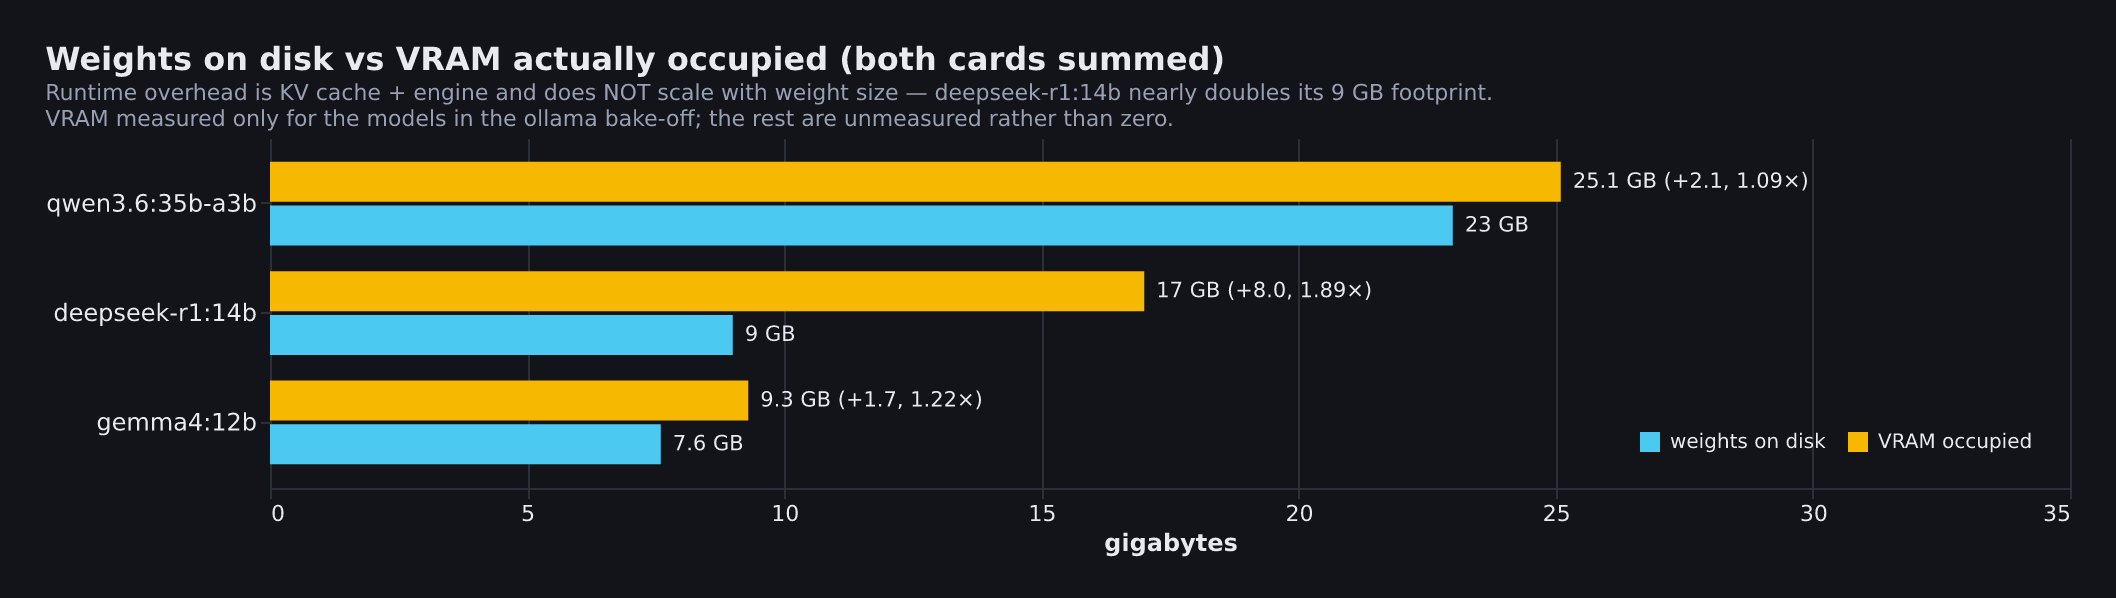
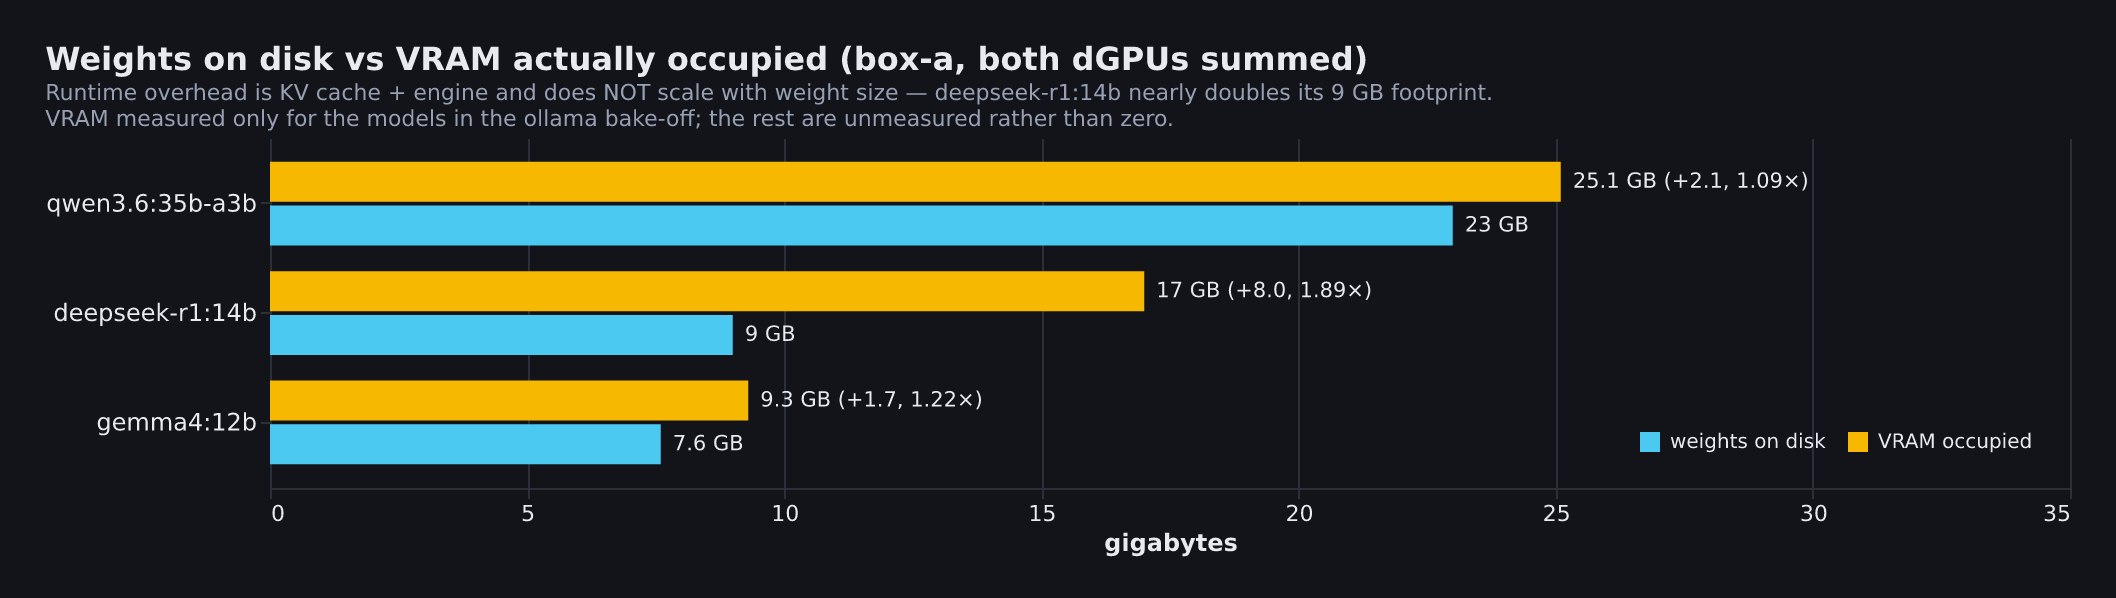
bench: add two-box throughput operating log

Changed region(s): [[0.4055, 0.0602, 0.655, 0.1204]]

diff --git a/bench/make_charts.py b/bench/make_charts.py
@@ -10,16 +10,23 @@ peak = [
     ("LFM2.5-8B-A1B",         230.0, "lfm",      "5.2 GB · Q4_K_M · MoE A1B · decode · best of 2"),
     ("Ornith-1.0-35B-A3B",    199.9, "ornith",   "21 GB · Q4_K_M · MoE A3B · llama.cpp -ngl 24 · best of 4"),
     ("Ornith-1.0-35B",        115.0, "ornith",   "21 GB · Q4_K_M · MoE A3B · single run"),
-    ("qwen3.6:35b-a3b",       114.4, "qwen",     "23 GB · Q4_K_M · MoE A3B · ollama · single run"),
-    ("qwen3-coder:30b",       108.1, "qwen",     "18 GB · Q4_K_M · 30.5B dense · spec-decode · best of 2"),
+    ("qwen3.6:35b-a3b",       114.43, "qwen",    "box-a · both-dgpu · Q4_K_M · n=1"),
+    ("qwen3-coder:30b",       111.7, "qwen",     "box-b · dgpu-b · quant unknown · n=1"),
+    ("gemma4:26b-a4b-it-qat", 105.2, "gemma",    "box-b · dgpu-b · q4_0-qat · n=2"),
     ("GLM-4.7-Flash",         105.0, "glm",      "18 GB · Q4_K_M · llama-server · best of 2"),
-    ("gemma4:26b-a4b-it-qat", 100.0, "gemma",    "15 GB · Q4_0 QAT · 25.2B MoE A4B · best of 3"),
+    ("GLM-4.7-Flash-GGUF",    105.0, "glm",      "box-a · both-dgpu · quant unknown · n=1"),
     ("Ornith-1.0-9B",          67.0, "ornith",   "5.6 GB · Q4_K_M · 9B dense · single run"),
+    ("qwen3.8:27b-devicepinned", 56.4, "qwen",   "box-b · dgpu-b · device-pinned build · n=1"),
     ("gemma4:12b",             54.0, "gemma",    "7.6 GB · Q4_K_M · 11.9B dense · best of 3"),
+    ("qwen3.8:27b",            46.0, "qwen",     "box-b · dgpu-b · quant unknown · n=1"),
     ("qwen3:14b",              42.5, "qwen",     "Q4_K_M · 14B · ollama · single run"),
     ("deepseek-r1:14b",        42.4, "deepseek", "9.0 GB · Q4_K_M · 14.8B · single run"),
+    ("muse-glimmer",           33.8, "qwythos",  "box-b · dgpu-b · llama-server spec-decode · n=3"),
+    ("gemma4:31b-it-qat",      28.25, "gemma",   "box-b · dgpu-b · q4_0-qat · n=2"),
     ("Qwythos-9B",             28.0, "qwythos",  "9B · decode, short context · best of 2"),
-    ("gemma4:31b-it-qat",      21.0, "gemma",    "18 GB · Q4_0 QAT · 30.7B DENSE · best of 3"),
+    ("gemma4:26b-a4b-it-bf16", 13.0, "gemma",    "box-b · igpu · bf16 · n=1 · dumped"),
+    ("gemma4:31b-it-q8_0",      6.6, "gemma",    "box-b · igpu · q8_0 · n=1 · dumped"),
+    ("gemma4:31b-it-bf16",      3.6, "gemma",    "box-b · igpu · bf16 · n=1 · dumped"),
 ]
 p1 = [{"model": m, "tps": v, "family": f, "detail": d} for m, v, f, d in peak]
 
@@ -93,9 +100,9 @@ p1_bars = {
     ],
 }
 panel1 = {
-    "title": {"text": "Local model throughput — measured on one dual-RTX 5060 Ti box",
-              "subtitle": ["Best run per model. Mixed serving stacks (ollama · llama.cpp · llama-server) — indicative, not a controlled cross-stack benchmark.",
-                           "Under each model name: weights · quantisation · architecture · how many runs it is the best of."],
+    "title": {"text": "Local model throughput — two-box operating log",
+              "subtitle": ["Best recorded row per model. Mixed serving stacks and boxes are directional operating data, not a controlled cross-vendor benchmark.",
+                           "Every single-run chart row states n=1; box and device sit under each model name."],
               "anchor": "start", "color": FG, "fontSize": 19, "subtitleColor": MUTED,
               "subtitleFontSize": 11.5},
     "hconcat": [p1_text, p1_bars], "spacing": 14,
@@ -147,7 +154,7 @@ panel2 = {
 }
 
 panel3 = {
-    "title": {"text": "Weights on disk vs VRAM actually occupied (both cards summed)",
+    "title": {"text": "Weights on disk vs VRAM actually occupied (box-a, both dGPUs summed)",
               "subtitle": ["Runtime overhead is KV cache + engine and does NOT scale with weight size — deepseek-r1:14b nearly doubles its 9 GB footprint.",
                            "VRAM measured only for the models in the ollama bake-off; the rest are unmeasured rather than zero."],
               "anchor": "start", "color": FG, "fontSize": 16, "subtitleColor": MUTED, "subtitleFontSize": 11},
@@ -170,6 +177,56 @@ panel3 = {
     ],
 }
 
+# ---------------------------------------------------------------- new two-box panels
+p4 = [
+    {"model": "gemma4:26b-a4b-it-qat", "side": "box-a / dgpu-a", "tps": 83.3, "label": "83.3  n=1"},
+    {"model": "gemma4:26b-a4b-it-qat", "side": "box-b / dgpu-b", "tps": 105.2, "label": "105.2  n=2"},
+    {"model": "gemma4:31b-it-qat", "side": "box-a / dgpu-a", "tps": 18.2, "label": "18.2  n=1"},
+    {"model": "gemma4:31b-it-qat", "side": "box-b / dgpu-b", "tps": 28.25, "label": "28.25  n=2"},
+    {"model": "qwen3-coder:30b", "side": "box-a / dgpu-a", "tps": 35.6, "label": "35.6  n=1"},
+    {"model": "qwen3-coder:30b", "side": "box-b / dgpu-b", "tps": 111.7, "label": "111.7  n=1"},
+    {"model": "qwen3.8:27b", "side": "box-a / dgpu-a", "tps": 21.2, "label": "21.2  n=1"},
+    {"model": "qwen3.8:27b", "side": "box-b / dgpu-b", "tps": 46.0, "label": "46.0  n=1"},
+]
+panel4 = {
+    "title": {"text": "Cross-box throughput — identical model, different silicon",
+              "subtitle": ["Grouped bars show the published CSV cell value, with box/device and n attached.",
+                           "Different vendors and serving stacks make this an operating comparison, not a controlled benchmark."],
+              "anchor": "start", "color": FG, "fontSize": 18, "subtitleColor": MUTED, "subtitleFontSize": 11.5},
+    "width": 900, "height": 280, "data": {"values": p4},
+    "encoding": {"x": {"field": "model", "type": "nominal", "title": None}, "xOffset": {"field": "side"}},
+    "layer": [
+        {"mark": {"type": "bar", "cornerRadiusEnd": 3},
+         "encoding": {"y": {"field": "tps", "type": "quantitative", "title": "tokens per second", "scale": {"zero": True}},
+                      "color": {"field": "side", "type": "nominal", "scale": {"domain": ["box-a / dgpu-a", "box-b / dgpu-b"], "range": ["#4cc9f0", "#b5179e"]}, "legend": {"title": None, "orient": "bottom"}}}},
+        {"mark": {"type": "text", "dy": -7, "fontSize": 10.5, "color": FG},
+         "encoding": {"y": {"field": "tps", "type": "quantitative"}, "text": {"field": "label"}}},
+    ],
+}
+p5 = [
+    {"model": "gemma4:26b-a4b-it-qat", "device": "dgpu-b", "tps": 105.2, "label": "105.2  n=2", "ratio": "1.6× dGPU / iGPU"},
+    {"model": "gemma4:26b-a4b-it-qat", "device": "igpu", "tps": 66.25, "label": "66.25  n=2", "ratio": ""},
+    {"model": "gemma4:31b-it-qat", "device": "dgpu-b", "tps": 28.25, "label": "28.25  n=2", "ratio": "2.4× dGPU / iGPU"},
+    {"model": "gemma4:31b-it-qat", "device": "igpu", "tps": 12.0, "label": "12.0  n=2", "ratio": ""},
+]
+panel5 = {
+    "title": {"text": "Box-b device split — dGPU vs iGPU",
+              "subtitle": ["Cell means from two reps per device; ratio is dGPU-b / iGPU.",
+                           "Functional-task quality was T1 8/8 for all four displayed cells."],
+              "anchor": "start", "color": FG, "fontSize": 18, "subtitleColor": MUTED, "subtitleFontSize": 11.5},
+    "width": 700, "height": 270, "data": {"values": p5},
+    "encoding": {"x": {"field": "model", "type": "nominal", "title": None}, "xOffset": {"field": "device"}},
+    "layer": [
+        {"mark": {"type": "bar", "cornerRadiusEnd": 3},
+         "encoding": {"y": {"field": "tps", "type": "quantitative", "title": "tokens per second", "scale": {"zero": True}},
+                      "color": {"field": "device", "type": "nominal", "scale": {"domain": ["dgpu-b", "igpu"], "range": ["#f7b801", "#43e97b"]}, "legend": {"title": None, "orient": "bottom"}}}},
+        {"mark": {"type": "text", "dy": -7, "fontSize": 10.5, "color": FG},
+         "encoding": {"y": {"field": "tps", "type": "quantitative"}, "text": {"field": "label"}}},
+        {"transform": [{"filter": "datum.device === 'dgpu-b'"}], "mark": {"type": "text", "dy": -29, "fontSize": 11.5, "fontWeight": "bold", "color": MUTED},
+         "encoding": {"y": {"field": "tps", "type": "quantitative"}, "text": {"field": "ratio"}}},
+    ],
+}
+
 
 # ---------------------------------------------------------------- consistency gate
 def _verify_against_csv():
@@ -182,9 +239,11 @@ def _verify_against_csv():
         sys.stderr.write(f"make_charts: {csv_path} missing — refusing to render an unverifiable chart\n")
         sys.exit(2)
     best = collections.defaultdict(float)
+    values = set()
     for r in csv.DictReader(open(csv_path)):
         if r["metric"] in ("generation", "decode"):
             best[r["model"]] = max(best[r["model"]], float(r["tok_per_sec"]))
+            values.add((r["model"], float(r["tok_per_sec"])))
     alias = {"Ornith-1.0-35B-A3B": "Ornith-1.0-35B-A3B-MoE-Q4", "qwen3.6:35b-a3b": "qwen3.6:35b-a3b-q4_K_M"}
     bad = []
     for name, v, _fam, _detail in peak:
@@ -193,11 +252,14 @@ def _verify_against_csv():
             bad.append(f"{name}: not present in CSV"); continue
         if abs(best[key] - v) > 0.051:
             bad.append(f"{name}: chart {v} vs CSV {best[key]}")
+    for row in p4 + p5:
+        if (row["model"], row["tps"]) not in values:
+            bad.append(f"{row['model']}: chart {row['tps']} not present in CSV")
     if bad:
         sys.stderr.write("make_charts: chart table DISAGREES with the CSV record:\n")
         for b in bad: sys.stderr.write(f"  - {b}\n")
         sys.exit(1)
-    print(f"consistency gate: OK — {len(peak)} chart rows match the CSV record")
+    print(f"consistency gate: OK — {len(peak)} peak rows and {len(p4) + len(p5)} two-box rows match the CSV record")
 
 _verify_against_csv()
 
@@ -213,7 +275,9 @@ import os
 OUT = os.path.dirname(os.path.abspath(__file__)) + "/"
 for name, panel in [("01_peak_throughput", panel1),
                     ("02_before_after", panel2),
-                    ("03_weights_vs_vram", panel3)]:
+                    ("03_weights_vs_vram", panel3),
+                    ("04_cross_box", panel4),
+                    ("05_device_split", panel5)]:
     spec = dict(COMMON); spec.update(panel)
     png = vlc.vegalite_to_png(json.dumps(spec), scale=2)
     open(OUT + name + ".png", "wb").write(png)

diff --git a/README.md b/README.md
@@ -42,73 +42,39 @@ another machine). The commit history tells that story.
 | `_tools/` | The export pipeline's own gates — provenance wall-checker, secrets/personal-data scanner, and a **ref gate**, all mutation-proven (`--self-test`). The first two ask "is this tree safe to publish?"; the third asks the question they structurally cannot: **"what would a push actually publish?"** A history rewrite is only true of the branch you rewrote — this repo's own rewrite left a clean `main` beside two leftover refs still carrying the trailers and build artifacts the rewrite removed, one `push --all` away from being republished. Content gates scan a worktree; pushes carry refs. |
 | `guard/` + pipeline surfaces | **The drift-guard core** — teeth-prover (every guard proven able to fail), contract-agreement across four vocabulary surfaces, 165 hermetic unit gates, and a sandboxing mutation harness that fail-closes without its measurement corpus. `2 = UNMEASURED` dominates `1 = violation` throughout. |
 | `specs/` | The multi-agent **driver-lock protocol**, the **curation-loop architecture**, and the verified-system-map pattern. |
-| `bench/` | **The throughput operating log** — 30 measurements over 14 local models, with sample sizes attached. See below. |
+| `bench/` | **The two-box throughput operating log** — 47 measurements over 20 model tags, with sample sizes and device labels attached. See below. |
 
-## Measured on the box
+## Measured on two boxes
 
-Numbers from the hardware this was built on, across ollama, llama.cpp and llama-server. Published
-with sample sizes attached rather than as a benchmark, because **7 of the 14 models were measured
-once and nothing exceeds four runs**. `bench/local_model_throughput.csv` carries an
-`n_runs_for_model` column so that limit travels with every row instead of living in a caption.
-These will be replaced as the sample deepens.
+This operating log now records `box-a` and `box-b`: different vendors, serving stacks, and device
+paths. Every CSV row carries `box`, `device`, `quant`, `serving_stack`, `quality_score`, `verdict`,
+and `n_runs_for_model` so the sample size stays attached to the number. Some rows are single-run.
+This is not a controlled cross-vendor benchmark; it is a transparent record for operating decisions,
+with its limits visible.
 
-### The box
-
-| | |
-|---|---|
-| **GPU** | 2 × NVIDIA RTX 5060 Ti, **16 GB GDDR7 each (32 GB total)** · Blackwell, compute capability **12.0 (sm_120)** · driver 595.71.05, CUDA 13.2 |
-| **CPU** | AMD Ryzen 7 5800XT — 8 cores / 16 threads, boost ~4.97 GHz |
-| **Motherboard** | MSI MAG B550 TOMAHAWK MAX WIFI — **AM4**, a mainstream 2020-era board. One GPU runs at **PCIe 4.0 x8**, the other at **PCIe 3.0 x4** (chipset slot). Neither gets a full x16 link. |
-| **RAM** | 32 GB DDR4 (30 GB usable) + 8 GB swap — 4 × 8 GB running at **2933 MT/s**. Deliberately mismatched: 3 × DDR4-3200 CL16 single-rank + 1 × DDR4-3000 CL15 dual-rank, so the controller settles below both kits' ratings. See the note below. |
-| **Storage** | 2 TB internal NVMe (BIWIN NV7400) for models and working state; 1 TB USB-attached NVMe SSD for backups |
-| **OS** | Ubuntu 26.04 LTS, kernel 7.0 |
-
-**What you'd actually need to reproduce this.** The tier that matters is VRAM, and it is a cliff
-rather than a slope — a model either fits or it doesn't:
-
-- **One 16 GB card** covers everything up to the `gemma4:26b-a4b-it-qat` tier (15 GB of weights,
-  **100 tok/s** measured, and the model this fleet audits code with). LFM2.5-8B (5.2 GB),
-  Ornith-9B (5.6 GB), gemma4:12b (7.6 GB) and deepseek-r1:14b (9.0 GB) all fit comfortably, with
-  room left for KV cache. **This is the honest minimum** — most of the useful lanes live here.
-- **The second card buys the 30–35B tier.** qwen3.6:35b-a3b is 23 GB of weights and occupies
-  **25.1 GB** once loaded, so it spans both cards; Ornith-35B and qwen3-coder:30b are the same
-  story. Those are the 108–200 tok/s rows.
-- **Budget for runtime overhead, not just weights** — it does not scale with model size. See the
-  third chart: one 9 GB model occupies 17 GB loaded.
-- **CPU is not the bottleneck** for GPU-resident inference; it matters for loading and for the
-  orchestration around the models. System RAM matters more than core count — 32 GB is adequate but
-  not generous once several services and a browser are running alongside.
-- Model weights are large. Roughly **700 GB** of models and working state on the internal NVMe here.
-- **Neither the platform nor the PCIe links need to be top-shelf.** This is an AM4 board (MSI B550
-  Tomahawk Max) feeding one card at **PCIe 4.0 x8** and the other at **PCIe 3.0 x4**, with the
-  deliberately mismatched DRAM above settling at 2933 MT/s. Every number in the charts was measured
-  through exactly those links. Once weights are resident, decode traffic barely touches the bus —
-  the choked links show up as slower model *loads*, not slower *inference* — and even the models
-  that span both cards hit their published rates across a 3.0 x4 link. Mismatched, mainstream,
-  lane-starved hardware is sufficient; the VRAM cliff above is the only spec that gates anything.
-
-**Peak decode per model** — weights, quantisation, architecture and run count sit under each name:
+**Best recorded row per model** — box, device, quantisation, and run count sit under each name:
 
 ![Peak throughput per model](bench/01_peak_throughput.png)
 
-**Before / after.** Six A/B pairs measured on the same box, same task. The finding that changed how
-this fleet routes work: swapping the audit lane from a 30.7B dense model to a 25.2B MoE averaged
-**+348%** across three tasks *at quality parity* — the smaller model also found **more** seeded bugs
-(5/5 vs 4/5, 18/18 vs 16/18). Speculative decoding on the same model averaged **+13%**. Routing beats
-flag-tuning here, and the gap is an order of magnitude.
-
-The two red rows stay red: a claimed MoE-offload speed-up **did not reproduce** at either offload
-level. A record that only keeps its wins is not a record.
+**Before / after.** Six same-box, same-task A/B pairs remain in the log, including the two published negatives.
 
 ![Before and after](bench/02_before_after.png)
 
-**Weights vs VRAM actually occupied.** Runtime footprint does not scale with weight size —
-`deepseek-r1:14b` occupies **1.89×** its 9 GB of weights once loaded, while `qwen3.6:35b-a3b`
-occupies **1.09×** its 23 GB. Sizing VRAM from model size alone goes badly wrong on the small model.
+**Weights vs VRAM actually occupied.** This panel is box-a-only, where those measurements exist.
 
 ![Weights vs VRAM](bench/03_weights_vs_vram.png)
 
-`bench/make_charts.py` regenerates all three from the CSV, and **fails closed** if the two disagree:
+**Cross-box.** The headline comparison places identical model tags on box-a and box-b, grouped by box/device.
+The bars do not turn differing stacks into a controlled benchmark.
+
+![Cross-box throughput](bench/04_cross_box.png)
+
+**Box-b device split.** The paired models show the dGPU-to-iGPU ratio from their two-rep cell means.
+Each bar states its sample size.
+
+![Box-b device split](bench/05_device_split.png)
+
+`bench/make_charts.py` regenerates all five images from the CSV, and **fails closed** if the two disagree:
 exit 1 on divergence, exit 2 when the CSV is absent — unverifiable is not the same as clean.
 
 ## The guard ladder

diff --git a/bench/README.md b/bench/README.md
@@ -1,60 +1,41 @@
-# Local model throughput — an operating log
+# Local model throughput — a two-box operating log
 
-**This is not a benchmark.** It is the throughput record this lab actually operates from, published
-with its sample sizes attached so you can see exactly how much weight it carries. Read the limits
-section before quoting any number here.
+**This is not a benchmark.** It is the throughput record this lab operates from, with sample sizes,
+device labels, and serving stacks attached to the rows. The two boxes use different vendors and
+serving stacks; this is not a controlled cross-vendor comparison.
 
-## The hardware
+## The boxes
 
-| | |
-|---|---|
-| **GPU** | 2 × NVIDIA RTX 5060 Ti, **16 GB GDDR7 each (32 GB total)** · Blackwell, compute capability **12.0 (sm_120)** · driver 595.71.05, CUDA 13.2 |
-| **CPU** | AMD Ryzen 7 5800XT — 8 cores / 16 threads, boost ~4.97 GHz |
-| **RAM** | 32 GB DDR4 (30 GB usable) + 8 GB swap — 4 × 8 GB running at **2933 MT/s**. Deliberately mismatched: 3 × DDR4-3200 CL16 single-rank + 1 × DDR4-3000 CL15 dual-rank, so the controller settles below both kits' ratings. See the note below. |
-| **Storage** | 2 TB internal NVMe (BIWIN NV7400), ~700 GB of it models and working state; 1 TB USB-attached NVMe SSD for backups |
-| **OS** | Ubuntu 26.04 LTS, kernel 7.0 |
-| **Serving stacks** | ollama · llama.cpp · llama-server |
+| | box-a | box-b |
+|---|---|---|
+| Compute | two 16 GB consumer dGPUs | 32 GB workstation dGPU plus unified-memory iGPU |
+| Memory / link context | 30 GiB DDR4-2933; one dGPU on PCIe Gen4 x8 and one on Gen3 x4 | unified-memory iGPU path; Vulkan serving stack |
+| Published device labels | `dgpu-a`, `both-dgpu` | `dgpu-b`, `igpu` |
 
-Every figure below was produced on that machine. Nothing here is a vendor number or a projection.
-
-**Minimum to reproduce.** VRAM is the binding constraint and it behaves as a cliff, not a slope —
-a model fits or it does not. **One 16 GB card** reaches the `gemma4:26b-a4b-it-qat` tier (15 GB of
-weights, 100 tok/s measured), which covers most of the useful lanes including code audit. **The
-second card buys the 30–35B tier** — qwen3.6:35b-a3b is 23 GB of weights and occupies 25.1 GB
-loaded, so it spans both cards. Budget for runtime overhead separately: it does not scale with
-weight size (see the weights-vs-VRAM table — one 9 GB model occupies 17 GB loaded).
-
-**A note on the RAM, since it is a real-world configuration rather than a clean one.** The four DIMMs
-are a 3:1 kit mismatch *and* a rank mismatch — three sticks from a DDR4-3200 CL16 single-rank kit plus
-one DDR4-3000 CL15 dual-rank stick — so all four negotiate down to **2933 MT/s**, under both kits'
-rated speeds. Four DIMMs are also harder on a Ryzen memory controller than two, and mixing ranks
-harder still. **It was left this way on purpose:** for GPU-resident inference the model weights and KV
-cache live in VRAM, so system DRAM speed affects model *load* time and CPU-side orchestration, not
-decode throughput. None of the tokens-per-second figures on this page would move meaningfully on a
-matched 3200 kit. If you are building for this workload, **spend the budget on VRAM before RAM
-speed.**
+The generalized labels identify roles rather than hosts, vendors, or product names. `serving_stack`
+is blank only where the retained source record does not identify one of the three published stack
+names; blank is more honest than a reconstructed value.
 
 ## The limits, stated first
 
 | | |
 |---|---|
-| Models covered | **14** |
-| Total measurements | **30** |
-| Models with a **single** run | **7 of 14** |
+| Models covered | **20 model tags** |
+| Total measurements | **47** |
+| Cells with a **single** run | **many; every chart labels n=1** |
 | Largest sample for any model | **4** |
 | Variance / confidence intervals | **none — not computable at these sample sizes** |
 
-Seven of the fourteen models were measured **once**. Nothing here has more than four runs. That is
-enough to make routing decisions on a box you own; it is **not** enough to publish as a benchmark,
-and it is not offered as one. `n_runs_for_model` ships in the CSV so the sample size travels with
-every row instead of living in a caption.
+Some rows are single-run. Others aggregate exact replicate values in `condition` and carry their cell
+sample count in `n_runs_for_model`. The charts use the published CSV cell value, not an invented error
+bar. This is an honestly bounded operating log, not a benchmark.
 
 Three further constraints worth naming:
 
-- **Mixed serving stacks.** A llama.cpp figure and an ollama figure are not a controlled comparison.
-  The `condition` column names the stack for every row.
-- **Peak, not mean.** The charts plot the best run per model. For a model measured once, "best" and
-  "only" are the same number — which flatters the models measured more often.
+- **Mixed serving stacks and boxes.** `ollama`, `llama.cpp`, and `llama-server` are not interchangeable
+  experimental conditions. Cross-box charts state box/device and sample size so the difference stays visible.
+- **Published cell values.** For a model measured once, that value is labelled `n=1`; two-rep paired
+  device rows report the stated cell mean and preserve both reps in `condition`.
 - **Prefill and decode are separate rows.** The `metric` column distinguishes them. Sorting them
   together produces nonsense: LFM's prefill figures are ~50× its decode figures.
 
@@ -76,11 +57,13 @@ Three further constraints worth naming:
 
 | file | what it is |
 |---|---|
-| `local_model_throughput.csv` | the record — 30 measurements, each with metric, sample size, condition, and source |
-| `01_peak_throughput.png` | peak decode per model, coloured by family, with weights · quantisation · architecture · run count |
+| `local_model_throughput.csv` | the 47-row record, including box, device, quant, stack, quality, and verdict |
+| `01_peak_throughput.png` | best recorded row per model, coloured by family, with box/device and run count |
 | `02_before_after.png` | the six measured A/B pairs with deltas, including the two that went backwards |
 | `03_weights_vs_vram.png` | weights on disk vs VRAM actually occupied |
-| `make_charts.py` | regenerates all three images from the CSV |
+| `04_cross_box.png` | identical model tags on box-a and box-b, grouped by box/device |
+| `05_device_split.png` | box-b dGPU versus iGPU for the paired models, with ratios |
+| `make_charts.py` | regenerates all five images from the CSV |
 
 ## Reproducing
 
